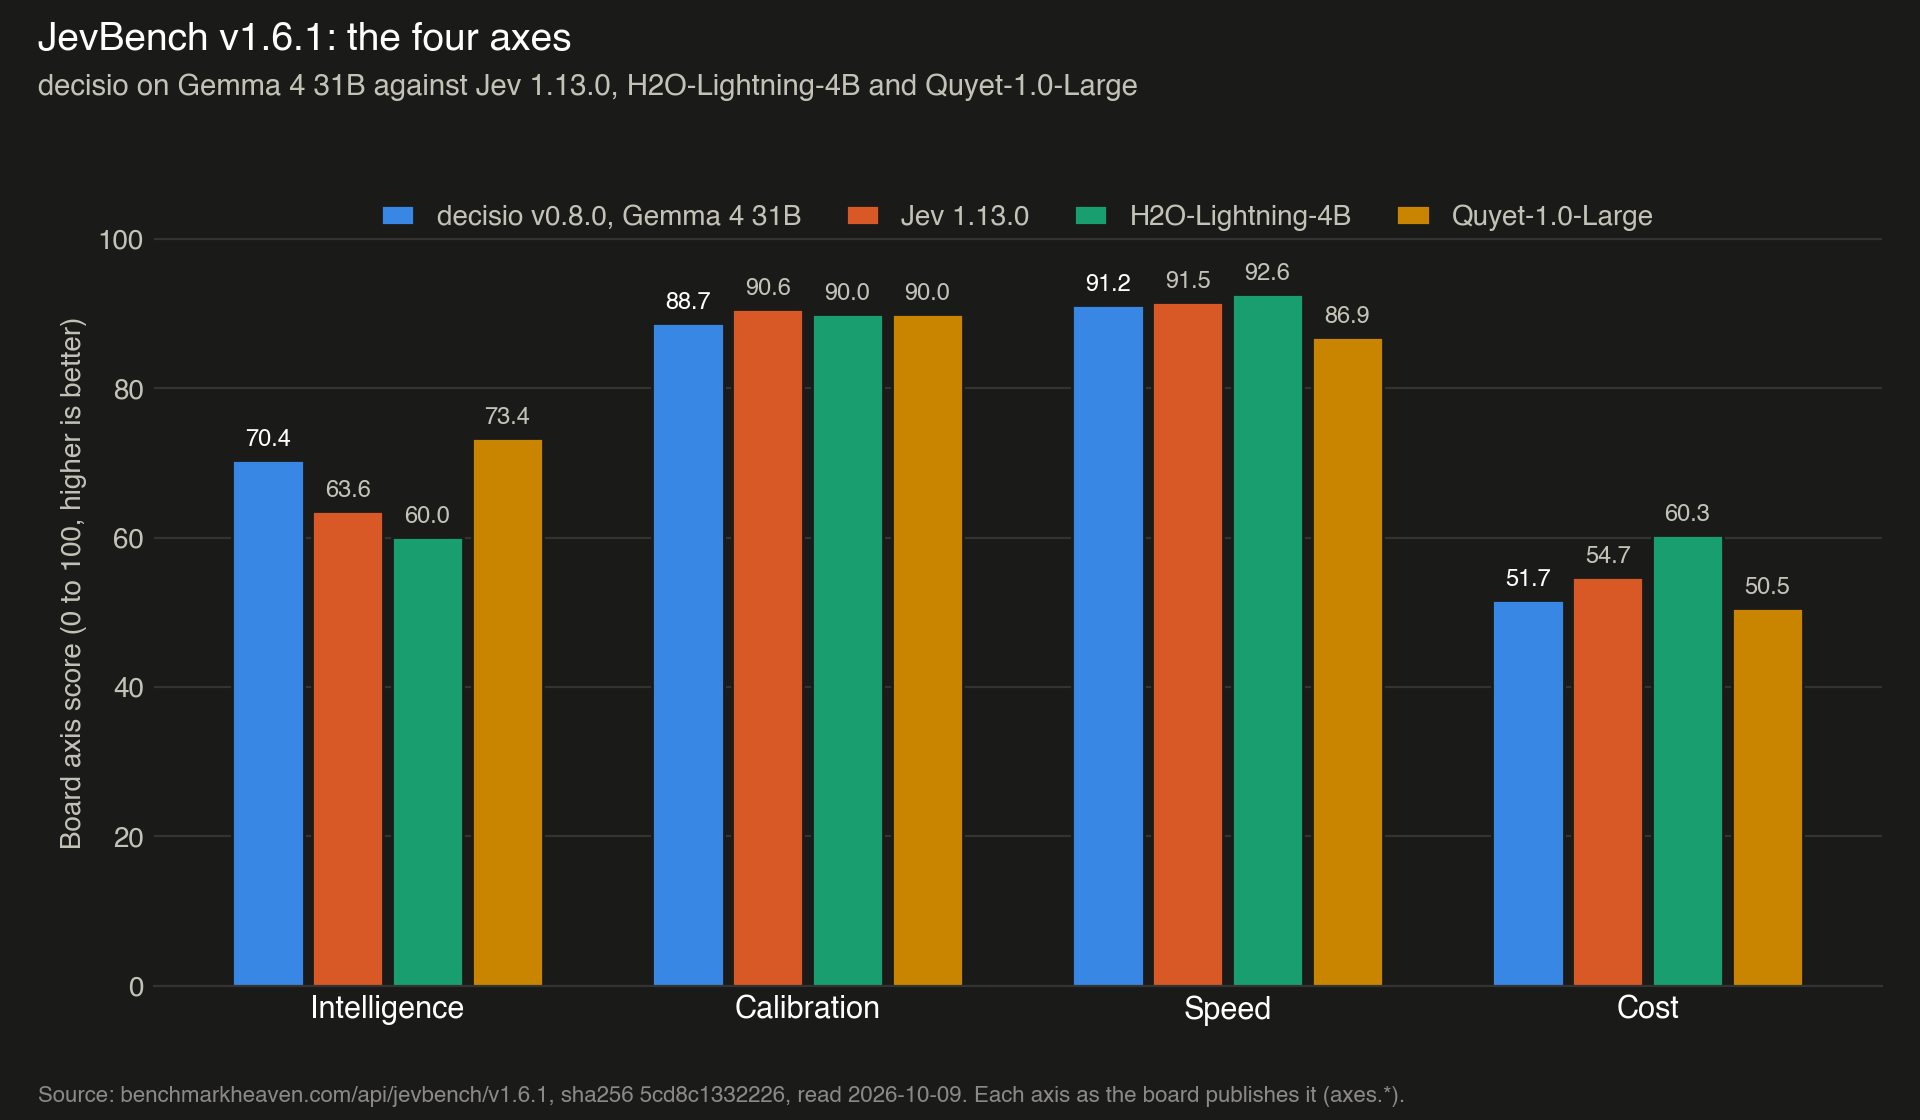
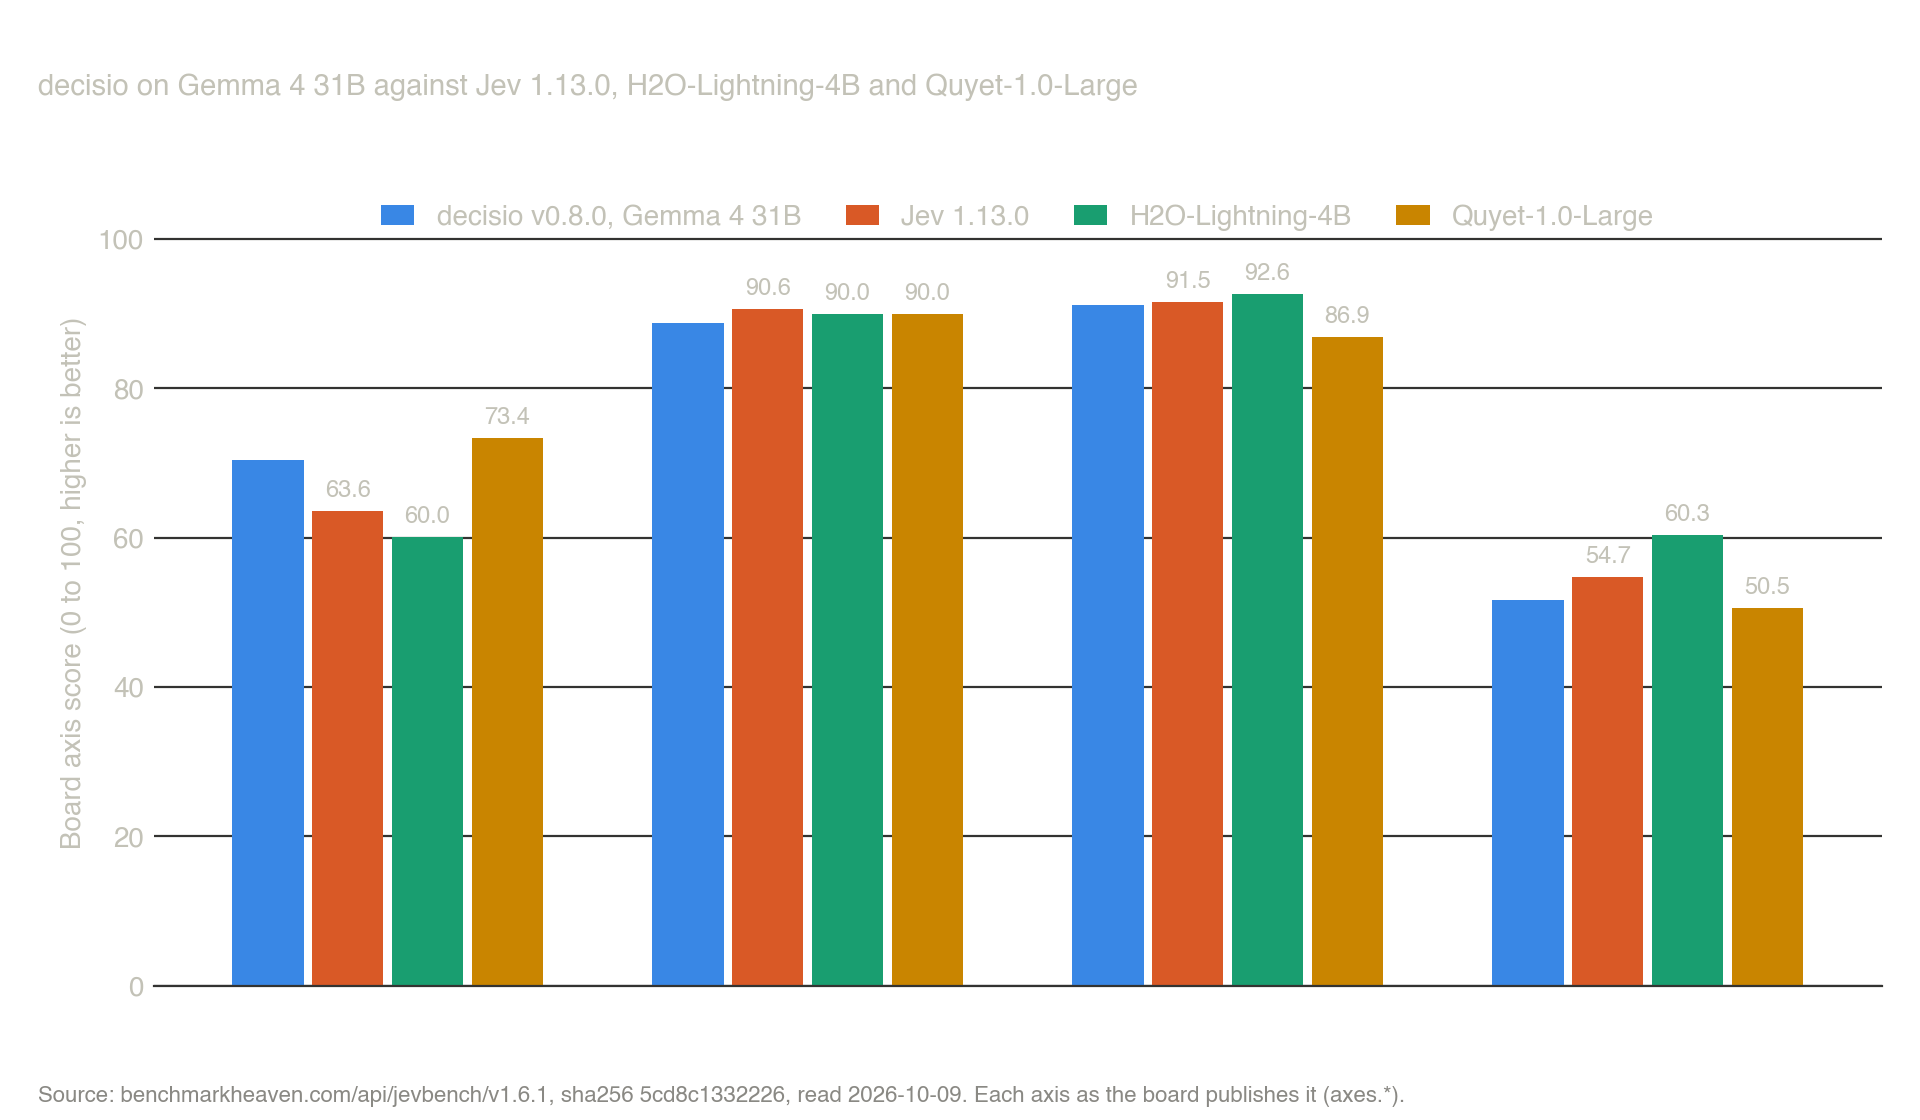
docs: the lead claim is second among open-weights systems, level with Jev, and the highest-ranked with frozen weights; the fixed charts; REUSE for the charts
Amin's new lead claim replaces the old headline; fourth of 135 moves into How we read the board. H2O-Lightning-4B ranks above us among open-weights systems with an interval that overlaps ours, and the note says so. Lab 1's charts re-pulled (7fb0fae2: dark variants transparent). docs/launch/** is annotated in REUSE.toml, which the main CI's REUSE step needed.

diff --git a/README.md b/README.md
@@ -9,12 +9,12 @@
 
 **Decisio is an open-source server that answers typed questions about any text, with a calibrated probability for every option, from one forward pass and no generated text.**
 
-> **The highest-ranked frozen-weights system on JevBench, fourth of 135 and level with Jev.**
+> **Second among open-weights systems on JevBench, level with Jev, and the highest-ranked with frozen weights.**
 > ([JevBench v1.6.1](https://benchmarkheaven.com/api/jevbench/v1.6.1), decisio on Gemma 4 31B; [how we read the board](#how-we-read-the-board).)
 
 <picture>
   <source media="(prefers-color-scheme: dark)" srcset="docs/launch/jevbench_top12_dark.png">
-  <img src="docs/launch/jevbench_top12.png" alt="JevBench v1.6.1: the top 12 of 135 ranked systems; decisio on Gemma 4 31B is the highest-ranked frozen-weights system, fourth, level with Jev">
+  <img src="docs/launch/jevbench_top12.png" alt="JevBench v1.6.1: the top 12 of 135 ranked systems; decisio on Gemma 4 31B is second among open-weights systems, level with Jev, and the highest-ranked with frozen weights">
 </picture>
 
 <!-- Advocacy's demo reel goes here once it exists. -->
@@ -480,12 +480,13 @@ Calibration on JevBench, as ECE on the standard and hard tiers: 0.121 and 0.043 
 Decisio scores higher on the sealed items than on the open ones.
 
 - **Source.** The figures are the board's, from its published file for [JevBench v1.6.1](https://benchmarkheaven.com/api/jevbench/v1.6.1) (sha256 `5cd8c1332226...`, read 2026-10-09), row `decisio-gemma-4-31b-v080`; the charts are drawn from that file, view A.
-- **Frozen weights.** The board has no frozen-weights class. We count a row as frozen when its display text says so (or says stock Gemma or Qwen) and names no LoRA, fine-tune, merge, training, adapter, head or decoder. The claim is about rank: decisio's row is the highest-ranked of those, fourth of 135 on the headline composite (third on view B, fourth on view C).
+- **Open weights.** Second among the board's 128 open-weights systems: the board's own `open_board_rank` is 2, and H2O-Lightning-4B ranks above us (72.52, interval 69.79 to 73.79) with an interval that overlaps ours (69.86 to 72.81). Overall the row is fourth of 135 on the headline composite (third on view B, fourth on view C).
+- **Frozen weights.** The board has no frozen-weights class. We count a row as frozen when its display text says so (or says stock Gemma or Qwen) and names no LoRA, fine-tune, merge, training, adapter, head or decoder. The claim is about rank: decisio's row is the highest-ranked of those.
 - **Level with Jev.** Our interval (69.86 to 72.81) and Jev 1.13.0's (69.14 to 72.40) overlap; the scores are 71.69 and 71.49.
 - **Intervals.** Two other frozen-weights rows have intervals that overlap ours, decider-12b-v1 (rank 9) and Cygnet (rank 13); deck-31B (rank 12) does not.
 - **The row.** It is decisio v0.8.0 with Google's weights quantized to FP8 on load, measured by the board on one H100 80 GB on 2026-10-06; 1,477 of its 1,500 items were answered, the 23 others being items of about 80,000 tokens, over the 32,768-token context. The 31B repository's FP8 weights are that same quantization, stored.
 - **Not fitted, but read.** Our temperatures were not fitted on JevBench; we have read its published items (EVAL_CARD 7.4).
-- **Also on the board:** second among its 128 open-weights systems, and second on the sealed set.
+- **Also on the board:** second on the sealed set.
 
 ## Teach it your question
 
